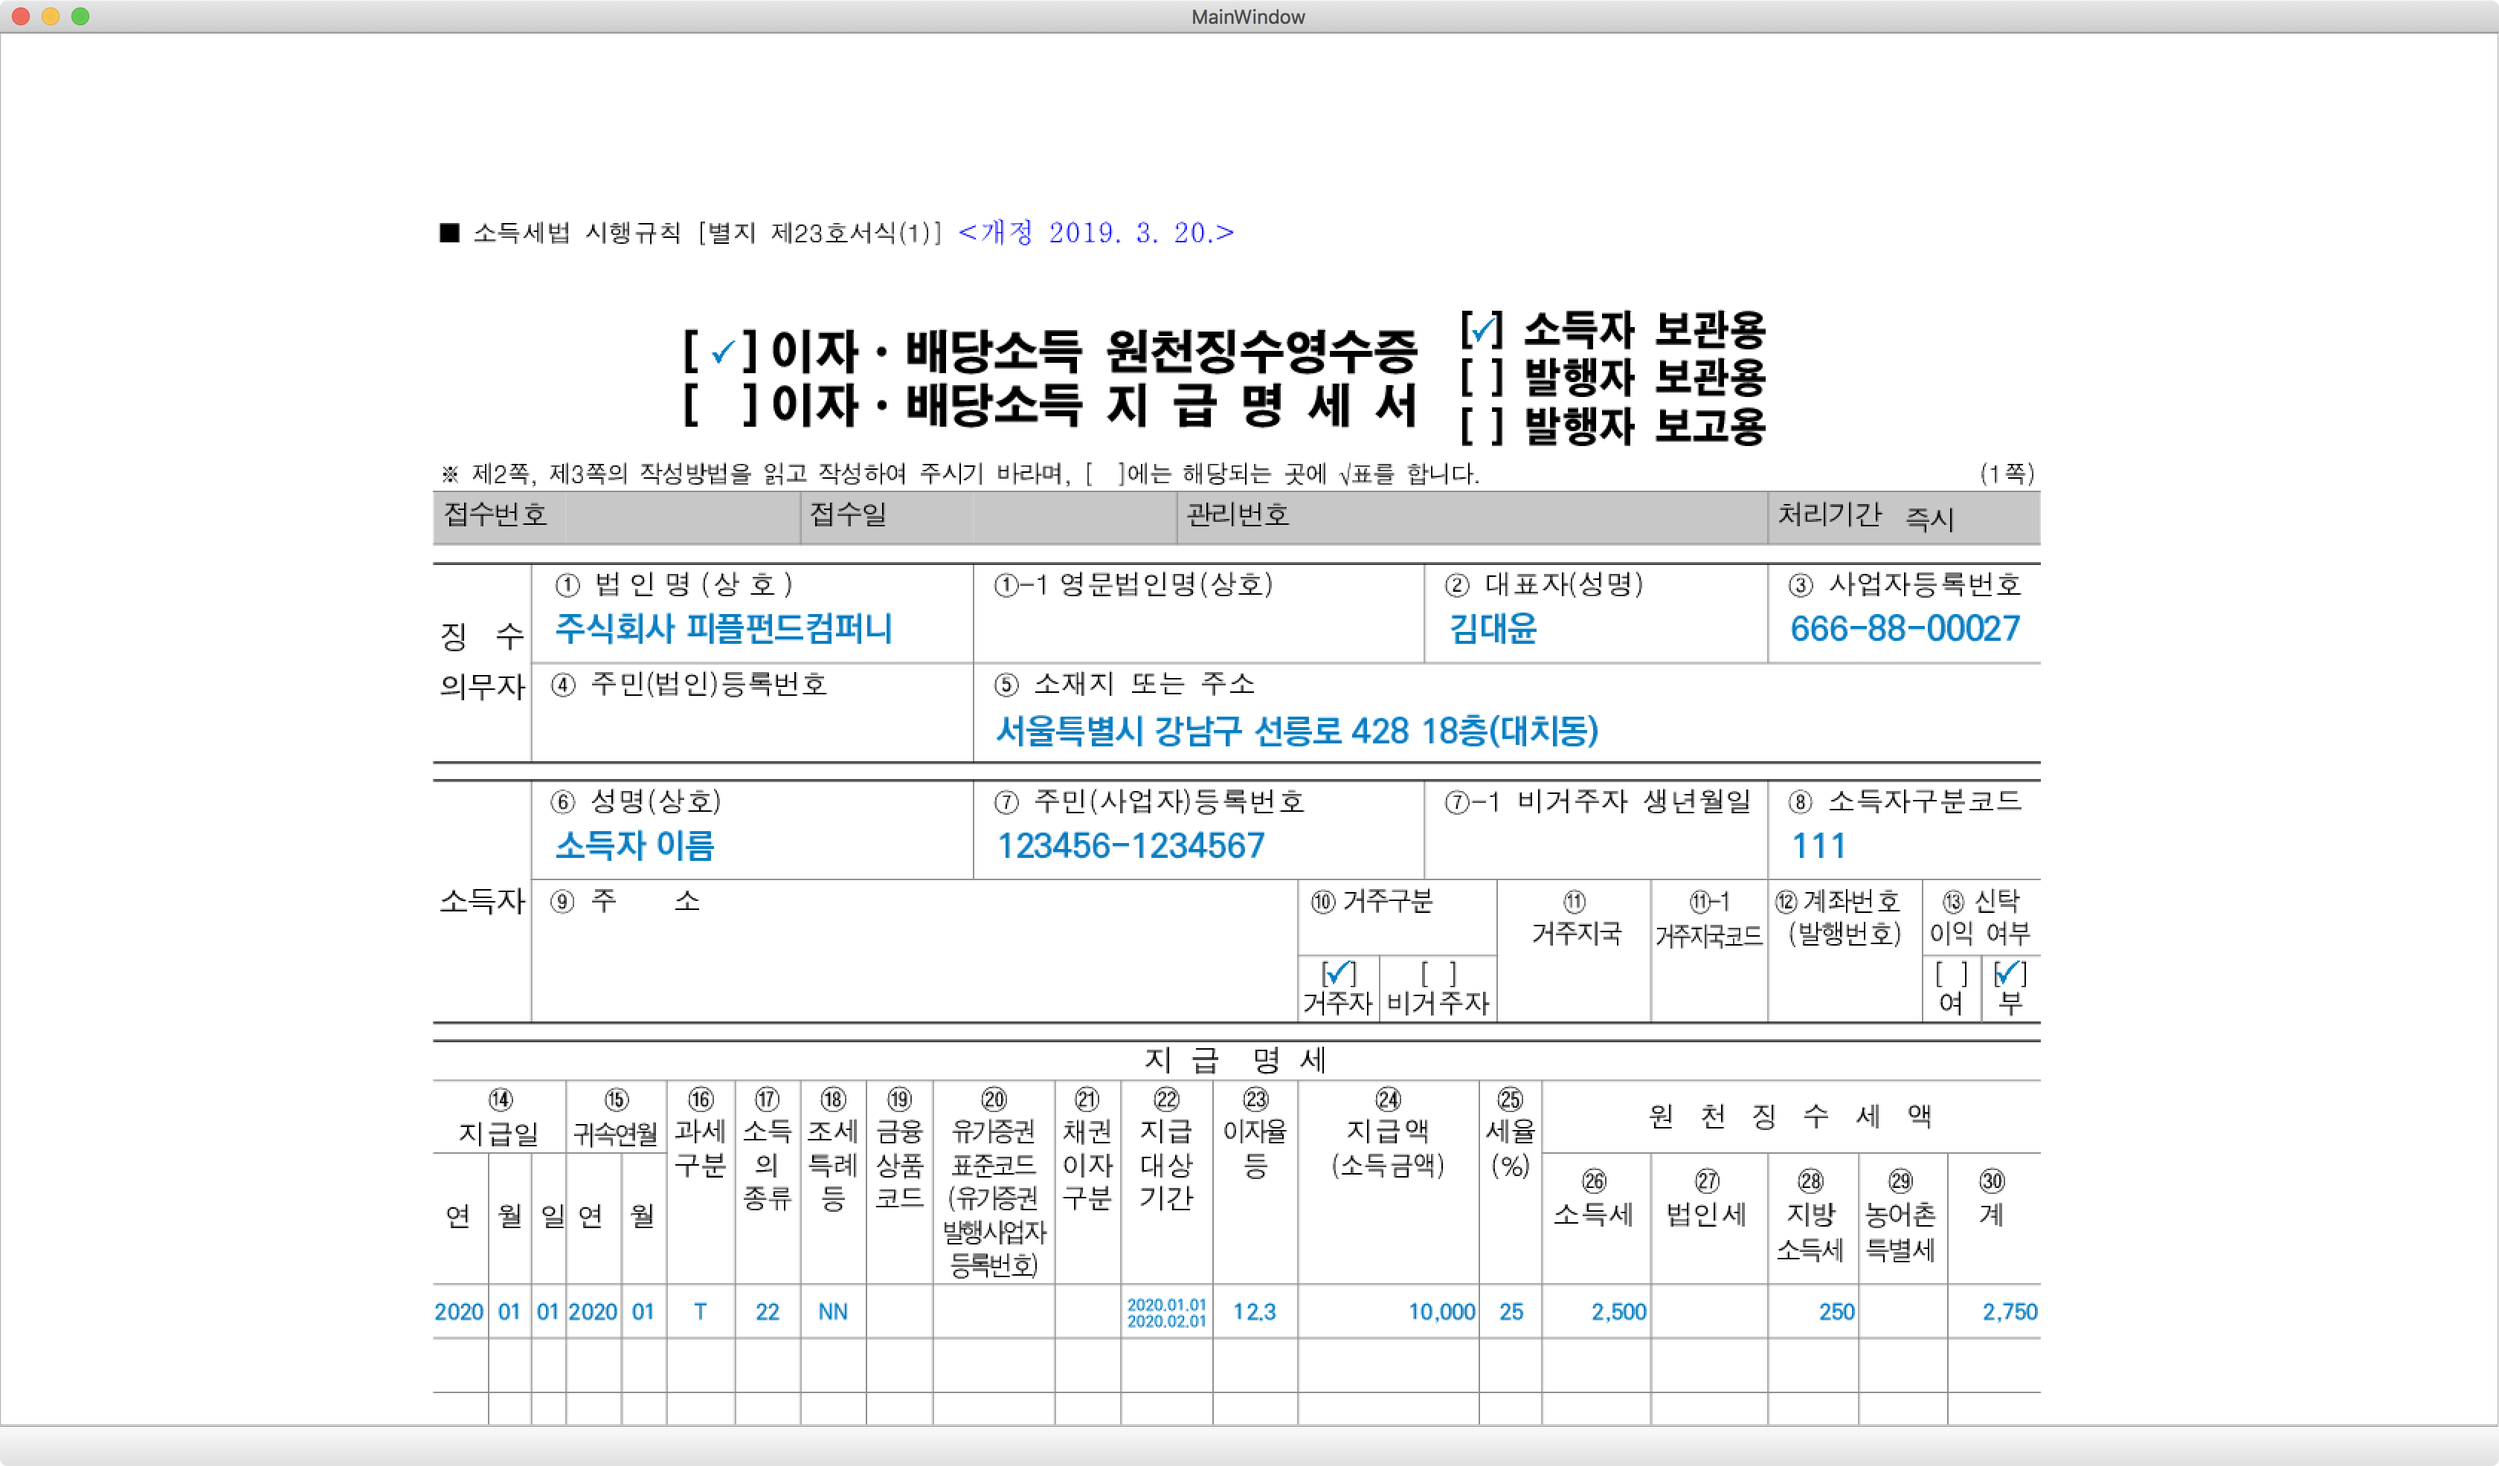
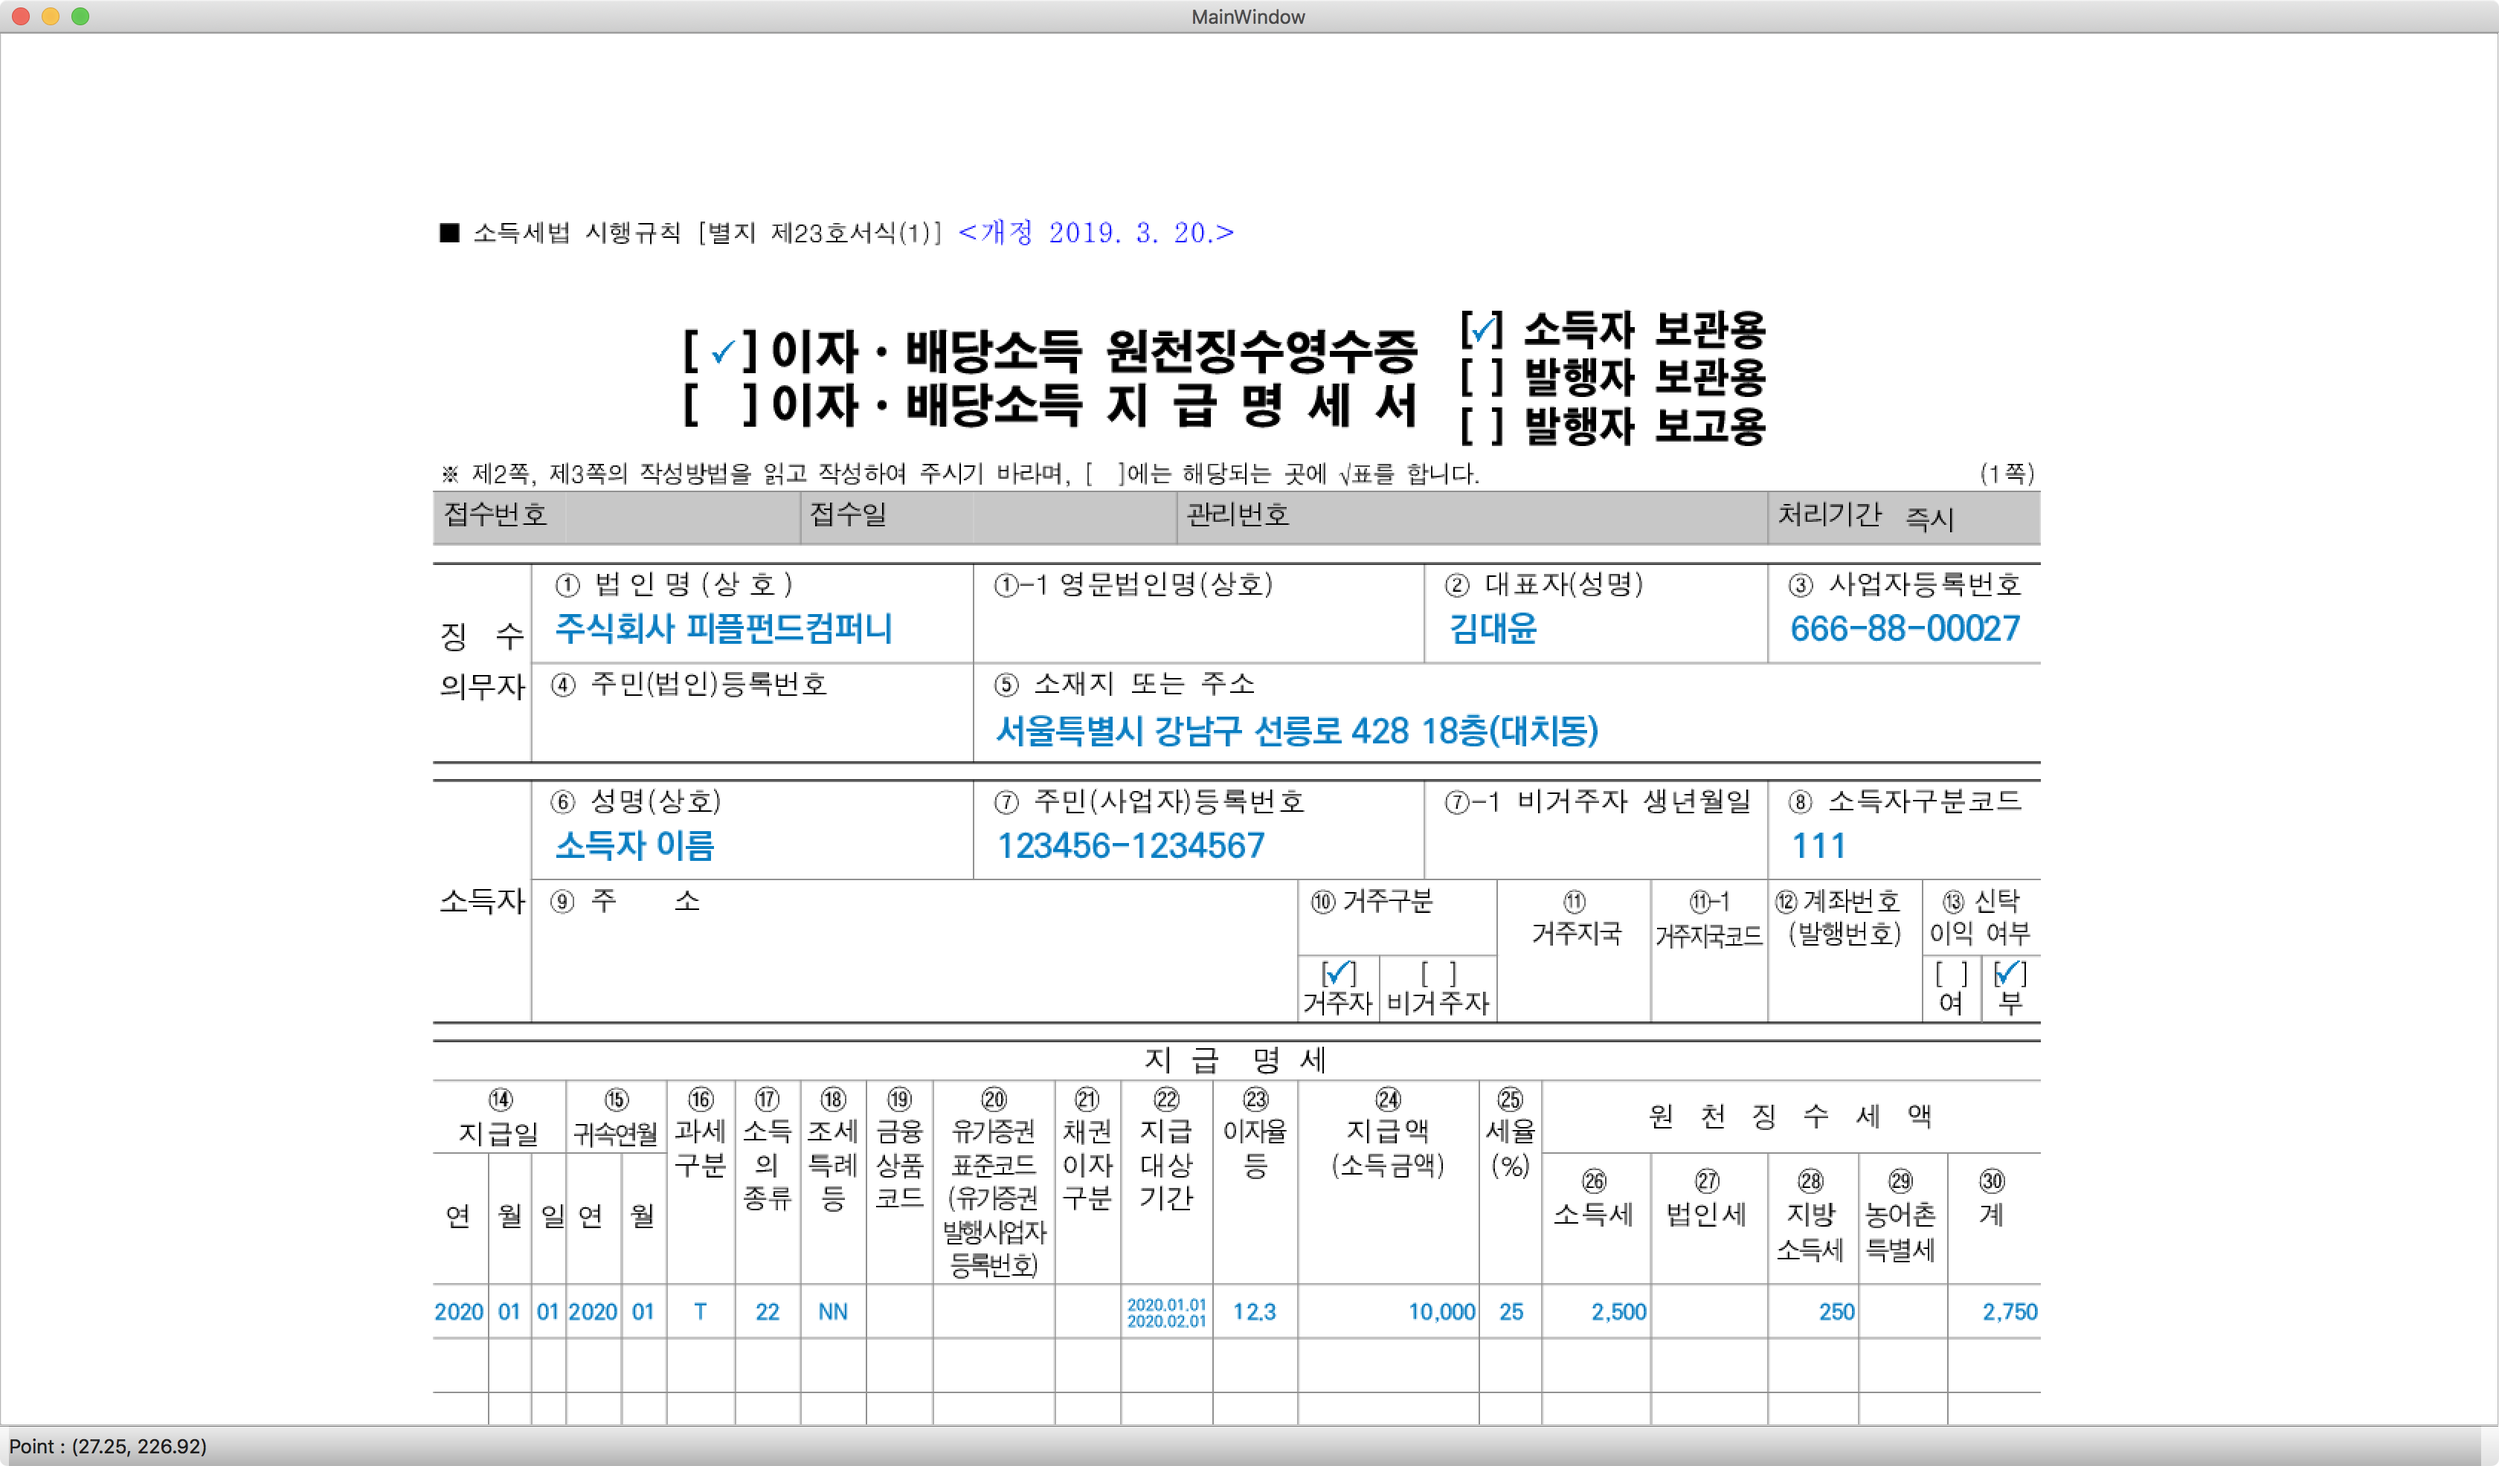
docs: README.md 업데이트

Changed region(s): [[0.0, 0.9589, 1.0, 1.0]]

diff --git a/README.md b/README.md
@@ -1,13 +1,14 @@
-# pdf-cooking-helper
+# PDF 좌표 
 PDF 템플릿을 생성할 때 좌표 구하는 작업을 도와주는 도구입니다.
+더 이상 출력해서 자로 재 가면서 좌표를 구하지 않아도 됩니다.
 
-# 설치 방법
+## 설치 방법
 
 1. Python 3.7에서 작업하였습니다.
 2. PDF 파일을 이미지 파일로 변환하는 과정에서 GhostScript 의존성이 필요합니다. Mac이라면 `brew install ghostscript`를 이용하여 설치할 수 있습니다.
 3. Python 의존성을 설치해 줍니다. `pip3 install -r requirements.txt` 명령어로 할 수 있습니다.
 
-# 실행 방법
+## 실행 및 사용 방법
 
 ```sh
 $ cd src
@@ -16,6 +17,13 @@ $ python3 main_ui.py
 
 ![사진](screenshot.png)
 
-# 라이센스
+원하는 곳에 마우스를 클릭하면 좌측 하단에 좌표가 출력됩니다.
 
-LICENSE 파일을 참고하세요.
+## Use Case
+
+PDF에 글자와 사진을 넣어야 할 일이 있을 때마다 요긴하게 사용했습니다.
+
+* 피플펀드 담보채권 : 원리금수취권
+* 프리페이 : 정산금채권 등 양도 통지서
+* 피플펀드 개인신용 : 대출자 전송용 담보부예금제공신청 계약서
+* 피플펀드 원천징수 : 이자/배당소득 원천징수영수증 - 소득자 보관용
